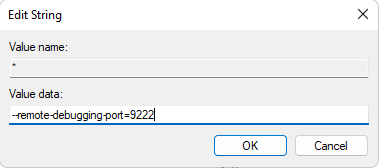
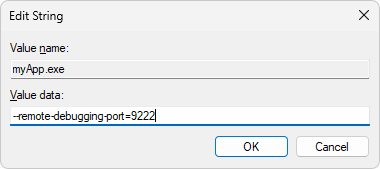
rewrite regkey ui steps & pngs

diff --git a/microsoft-edge/webview2/how-to/debug-visual-studio-code.md b/microsoft-edge/webview2/how-to/debug-visual-studio-code.md
@@ -112,26 +112,33 @@ You might need to attach the debugger to running WebView2 processes.  To do that
 
 Your WebView2 control must open the Chrome Developer Protocol (CDP) port to allow debugging of the WebView2 control.  Your code must be built to ensure that only one WebView2 control has a CDP port open, before starting the debugger.
 
-You will also need to add a new REGKEY `<yourApp.exe> = --remote-debugging-port=9222` under `Computer\HKEY_CURRENT_USER\Software\Policies\Microsoft\Edge\WebView2\AdditionalBrowserArguments` so that the debugger can find the proper port. To add this registry key:
+You also need to add a new REGKEY `<yourApp.exe> = --remote-debugging-port=9222` under `Computer\HKEY_CURRENT_USER\Software\Policies\Microsoft\Edge\WebView2\AdditionalBrowserArguments`, so that the debugger can find the proper port.  To add this registry key:
 
-1. Open the Registry Editor by pressing the **Windows logo key** and then searching for **registry editor**. Open the **Registry Editor** application, and then select **Yes** to allow editing.
+1. Press the **Windows logo key** and then search for **registry editor**.  Open the **Registry Editor** app, and then click **Yes** to allow editing.
 
-1. Set the registry key `HKEY_CURRENT_USER\Software\Policies\Microsoft\Edge\WebView2\AdditionalBrowserArguments\<yourApp.exe>` equal to `--remote-debugging-port=9222`.
+1. In the folder tree on the left, try to expand `HKEY_CURRENT_USER\Software\Policies\Microsoft\Edge\WebView2\AdditionalBrowserArguments`.
 
-   To do this, in the editor, navigate to `HKEY_CURRENT_USER\Software\Policies\Microsoft\Edge\WebView2\AdditionalBrowserArguments` by clicking on each subfolder under the path.
+1. If the `\Edge\WebView2\AdditionalBrowserArguments` part of that path doesn't exist, create those three nested subfolders, as follows:
 
-   If this path doesn't exist, navigate to `HKEY_CURRENT_USER\Software\Policies\Microsoft` in the editor, right-click the `Microsoft` folder, select **New**, and then select **Key**.  Enter `Edge` for the name of the new key.  Continue to do this for each subfolder until you have the full path: `HKEY_CURRENT_USER\Software\Policies\Microsoft\Edge\WebView2\AdditionalBrowserArguments`.
+   1. To create the `\Edge` subfolder: In the folder tree, right-click the `HKEY_CURRENT_USER\Software\Policies\Microsoft` folder, hover over **New**, and then select **Key**.  A folder is added as a child of the **Microsoft** folder, initially named `New Key #1`.  Right-click the `New Key #1` folder, and then select **Rename**.  Enter `Edge` for the name of the new key.
 
-1. Right-click the `AdditionalBrowserArguments` folder, select **New**, and then select **String Value**.
-Rename `New Value #1` to `<yourApp.exe>`.
+   1. Create the `\WebView2` subfolder, as in the previous step.
 
-1. Right click the **<yourApp.exe>** value, and then select **Modify**.  Set the `Value Data` equal to `--remote-debugging-port=9222`.  Verify that the edit window matches the following:
+   1. Create the `\AdditionalBrowserArguments` subfolder, as in the previous step.
 
-   ![Set Registry Key](./debug-visual-studio-code-images/set-debugging-port.png)
+      The tree is now expanded to `HKEY_CURRENT_USER\Software\Policies\Microsoft\Edge\WebView2\AdditionalBrowserArguments`.
 
-1. Click **OK**, and then verify that the registry key is set in the editor and matches the following:
+1. Right-click the `AdditionalBrowserArguments` folder, hover over **New**, and then select **String Value**.  In the **Name** column, right-click `New Value #1`, select **Rename**, and then enter the file name of your app executable, such as `myApp.exe`.
 
-   ![Registry Key](./debug-visual-studio-code-images/set-debugging-port-registry-key.png)
+1. In the **Name** column, right-click your executable file name, such as `myApp.exe`, and then select **Modify**.  The **Edit String** dialog opens.
+
+1. In the **Value data** text box, enter `--remote-debugging-port=9222`:
+
+   ![The "Edit String" dialog, to set the registry key](./debug-visual-studio-code-images/set-debugging-port.png)
+
+1. Click the **OK** button, and then verify that the registry key matches the following (with the file name of your `.exe` file in the **Name** column):
+
+   ![The resulting registry key in the Registry Editor](./debug-visual-studio-code-images/set-debugging-port-registry-key.png)
 
 
 <!-- ====================================================================== -->
